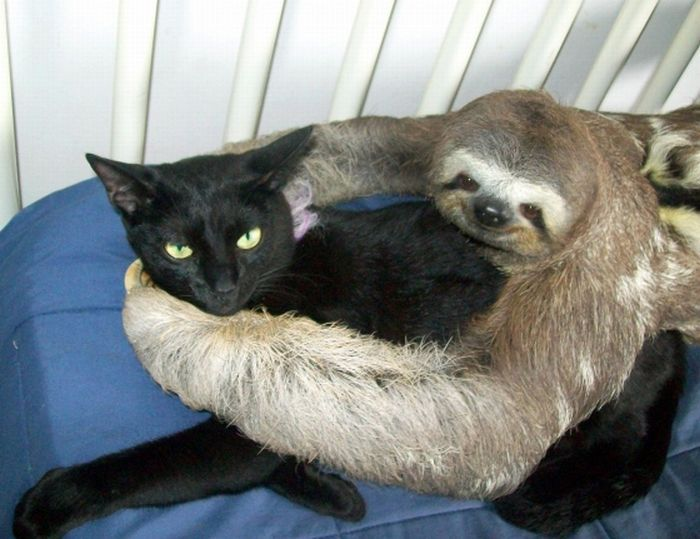
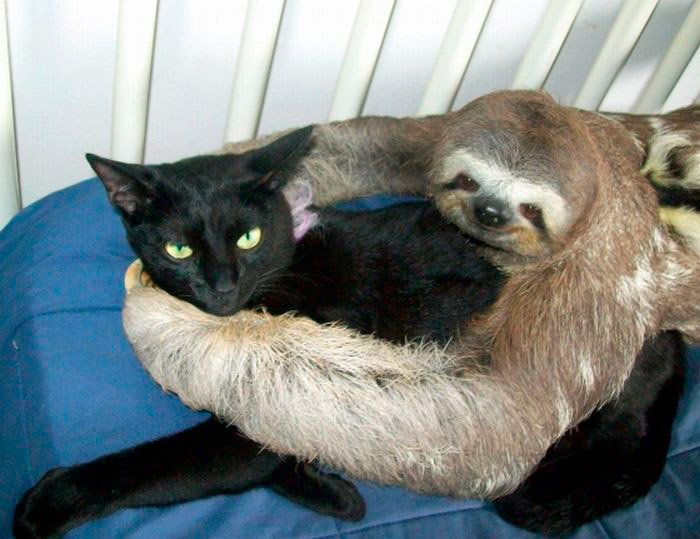
Add retina images

diff --git a/src/index.html b/src/index.html
@@ -24,49 +24,49 @@
         <div class="gallery__body">
           <!-- Gallery-item 1 -->
           <div class="gallery__item">
-            <img class="gallery__item-img" src="img/cat.jpeg">
+            <img class="gallery__item-img" src="img/cat.jpg" srcset="img/cat@2x.jpg 2x" alt="Котик">
             <p class="gallery__item-title">Котик</p>
           </div>
           <!-- /Gallery-item 1 -->
 
           <!-- Gallery-item 2 -->
           <div class="gallery__item">
-            <img class="gallery__item-img" src="img/cat2.jpeg">
+            <img class="gallery__item-img" src="img/cat2.jpg" srcset="img/cat2@2x.jpg 2x" alt="Котик">
             <p class="gallery__item-title">Котик</p>
           </div>
           <!-- /Gallery-item 2 -->
 
           <!-- Gallery-item 3 -->
           <div class="gallery__item">
-            <img class="gallery__item-img" src="img/sloth.jpg" alt="">
+            <img class="gallery__item-img" src="img/sloth.jpg" srcset="img/sloth@2x.jpg 2x" alt="Ленивец">
             <p class="gallery__item-title">Пёсик</p>
           </div>
           <!-- /Gallery-item 3 -->
 
           <!-- Gallery-item 4 -->
           <div class="gallery__item">
-            <img class="gallery__item-img" src="img/baby-sloth.jpg" alt="">
+            <img class="gallery__item-img" src="img/baby-sloth.jpg" srcset="img/baby-sloth@2x.jpg 2x" alt="Ленивец">
             <p class="gallery__item-title">пёсик</p>
           </div>
           <!-- /Gallery-item 4 -->
 
           <!-- Gallery-item 5 -->
           <div class="gallery__item">
-            <img class="gallery__item-img" src="img/cat3.jpg" alt="">
+            <img class="gallery__item-img" src="img/cat3.jpg" srcset="img/cat3@2x.jpg 2x" alt="Котик">
             <p class="gallery__item-title">пёсик</p>
           </div>
           <!-- /Gallery-item 5 -->
 
           <!-- Gallery-item 6 -->
           <div class="gallery__item">
-            <img class="gallery__item-img" src="img/cat-sloth.jpg" alt="">
+            <img class="gallery__item-img" src="img/cat-sloth.jpg" srcset="img/cat-sloth@2x.jpg 2x" alt="Котик с ленивцем">
             <p class="gallery__item-title">котик и пёсик</p>
           </div>
           <!-- /Gallery-item 6 -->
 
           <!-- Gallery-item 7 -->
           <div class="gallery__item">
-            <img class="gallery__item-img" src="img/baby-sloth.jpg">
+            <img class="gallery__item-img" src="img/baby-sloth.jpg" srcset="img/baby-sloth@2x.jpg 2x" alt="Ленивец">
             <p class="gallery__item-title">пёсик</p>
           </div>
           <!-- /Gallery-item 7 -->
